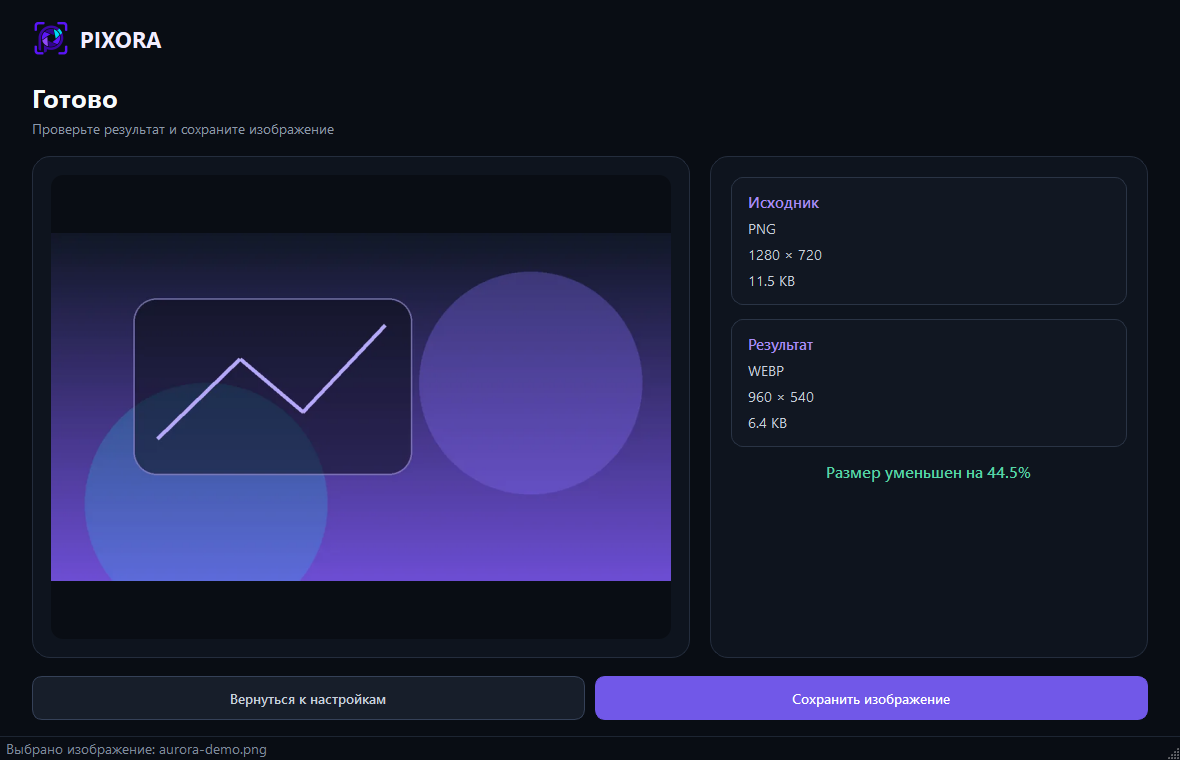
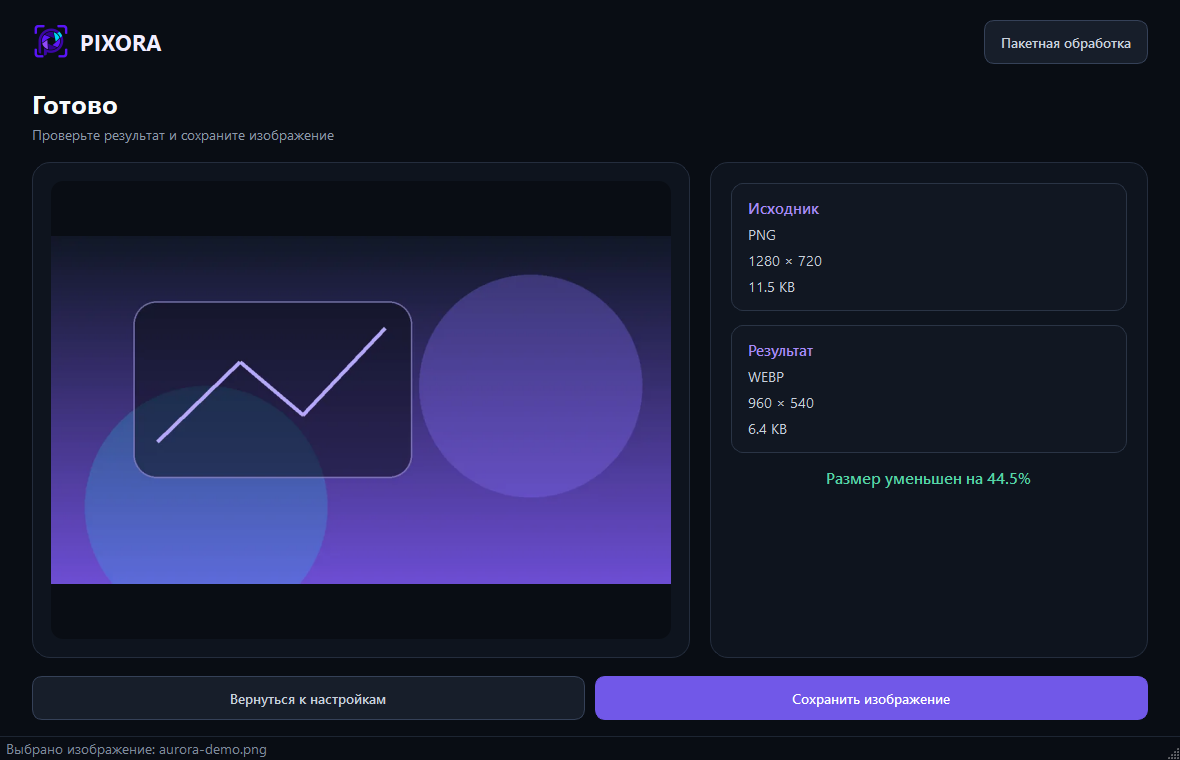
docs: описал распределённую обработку

diff --git a/scripts/capture_screenshots.py b/scripts/capture_screenshots.py
@@ -40,7 +40,7 @@ def create_showcase_image(destination: Path) -> None:
 
 
 def main() -> int:
-    """Render the workspace and inline result states into PNG files."""
+    """Render workspace, result and distributed batch states into PNG files."""
     SCREENSHOT_DIR.mkdir(parents=True, exist_ok=True)
     application = QApplication.instance() or QApplication([])
     apply_dark_theme(application)
@@ -85,6 +85,21 @@ def main() -> int:
         window.content_stack.setCurrentWidget(window.result_panel)
         application.processEvents()
         window.grab().save(str(SCREENSHOT_DIR / "pixora-result.png"))
+
+        batch_sources = [sample_path]
+        for index, size in enumerate(((900, 900), (800, 1200)), start=2):
+            batch_source = temporary_path / f"aurora-demo-{index}.png"
+            Image.new(
+                "RGB",
+                size,
+                (45 + index * 35, 55, 130 + index * 20),
+            ).save(batch_source, format="PNG")
+            batch_sources.append(batch_source)
+        window.batch_panel.set_files(batch_sources)
+        window.content_stack.setCurrentWidget(window.batch_panel)
+        window.batch_mode_button.setText("Обычный режим")
+        application.processEvents()
+        window.grab().save(str(SCREENSHOT_DIR / "pixora-batch.png"))
 
         processed_image.close()
         window.close()

diff --git a/docs/distributed-processing.md b/docs/distributed-processing.md
@@ -1,0 +1,99 @@
+# Распределённая обработка Pixora
+
+## Что запущено
+
+Локальный стенд состоит из пяти постоянно работающих контейнеров:
+
+- `api` — принимает пакет изображений, создаёт задания и отдаёт статусы;
+- `redis` — передаёт задания Celery и хранит их состояния;
+- `minio` — хранит исходные изображения и готовые результаты;
+- два экземпляра `worker` — независимо забирают задания из очереди и вызывают
+  обычный `ImageService` Pixora.
+
+Каждое изображение является отдельной вычислительной задачей. Поэтому разные
+изображения одного пакета могут одновременно обрабатываться разными workers.
+
+## Запуск локального кластера
+
+Из корня проекта:
+
+```powershell
+docker compose up --build --detach
+docker compose ps
+```
+
+После запуска доступны:
+
+- API: <http://127.0.0.1:8000>;
+- Swagger: <http://127.0.0.1:8000/docs>;
+- MinIO Console: <http://127.0.0.1:9001>.
+
+Данные Redis и MinIO находятся в именованных Docker volumes. Метаданные задач и
+файлы автоматически удаляются через 24 часа. Исходник также удаляется сразу
+после успешной обработки или подтверждённой отмены.
+
+## Быстрая проверка
+
+```powershell
+python scripts/distributed_smoke_test.py
+```
+
+Скрипт выполняет полный путь:
+
+1. создаёт восемь временных PNG с разными соотношениями сторон;
+2. отправляет их одним пакетом в FastAPI;
+3. ждёт завершения Celery-задач;
+4. проверяет участие минимум двух workers;
+5. скачивает результаты из MinIO через API;
+6. проверяет формат, размеры и отсутствие искажений пропорций.
+
+Если включено «Сохранять пропорции», каждое изображение независимо вписывается
+в выбранные границы ширины и высоты. Если флажок отключён, все результаты имеют
+точно указанный размер.
+
+## Масштабирование
+
+Число worker-контейнеров можно изменить без правок Python-кода:
+
+```powershell
+docker compose up --detach --scale worker=4
+```
+
+Redis отдаёт свободное задание следующему доступному worker. Параметр
+`worker_prefetch_multiplier=1` не позволяет одному узлу заранее забрать большую
+часть коротких заданий.
+
+## Остановка
+
+```powershell
+docker compose down
+```
+
+Команда останавливает контейнеры, но сохраняет результаты и данные очереди.
+Удалять volumes следует только тогда, когда тестовые данные больше не нужны.
+
+## Переменные окружения
+
+Пример локальных реквизитов находится в `.env.example`. Для тестового стенда
+Compose подставляет локальные демонстрационные значения. Перед запуском в общей
+сети нужно задать собственный длинный пароль MinIO и не публиковать Redis без
+аутентификации и сетевого ограничения.
+
+Desktop-приложение по умолчанию обращается к
+`http://127.0.0.1:8000`. Другой адрес можно передать через переменную
+`PIXORA_API_URL` до запуска Pixora.
+
+## HTTP API
+
+- `GET /health` — готовность Redis и MinIO;
+- `POST /api/v1/batches` — загрузка пакета и постановка задач в очередь;
+- `GET /api/v1/batches/{batch_id}` — общий прогресс и состояния файлов;
+- `POST /api/v1/batches/{batch_id}/cancel` — отмена незавершённых задач;
+- `GET /api/v1/jobs/{job_id}` — состояние одной задачи;
+- `GET /api/v1/jobs/{job_id}/download` — скачивание готового результата.
+
+В ответе успешной задачи есть поле `worker`. Разные значения этого поля для
+одного пакета являются наглядным подтверждением распределения вычислений.
+
+Отмена хранится в Redis, поэтому ожидающая задача останется отменённой даже в
+том случае, если worker был выключен во время запроса и подключился позднее.

diff --git a/README.md b/README.md
@@ -9,7 +9,7 @@
 </p>
 
 <p align="center">
-  <a href="https://github.com/7sy-png/Pixora/releases/latest/download/Pixora-v1.2.0-windows-x64.exe">
+  <a href="https://github.com/7sy-png/Pixora/releases/latest/download/Pixora-v2.0.0-windows-x64.exe">
     <strong>Скачать Pixora для Windows</strong>
   </a>
 </p>
@@ -27,12 +27,13 @@
 - живой предпросмотр размера, пропорций, поворота и отражения;
 - Drag & Drop и выбор файла через проводник;
 - предпросмотр результата перед сохранением;
-- обработка без зависания интерфейса.
+- обработка без зависания интерфейса;
+- пакетная обработка через FastAPI, Redis, Celery и несколько Docker-workers.
 
 ## Скачать и запустить
 
 1. Скачайте
-   [Pixora-v1.2.0-windows-x64.exe](https://github.com/7sy-png/Pixora/releases/latest/download/Pixora-v1.2.0-windows-x64.exe).
+   [Pixora-v2.0.0-windows-x64.exe](https://github.com/7sy-png/Pixora/releases/latest/download/Pixora-v2.0.0-windows-x64.exe).
 2. Запустите файл — установка не требуется.
 3. Выберите изображение и задайте параметры обработки.
 
@@ -63,6 +64,23 @@ python main.py
 ```
 
 Поддерживаются файлы `.jpg`, `.jpeg`, `.png` и `.webp` размером до 20 МБ.
+
+## Распределённый режим
+
+Для пакетной обработки установите Docker Desktop и запустите локальный кластер:
+
+```powershell
+python -m pip install -r requirements.txt -r requirements-distributed.txt
+docker compose up --build --detach
+python scripts/distributed_smoke_test.py
+python main.py
+```
+
+Каждое изображение становится отдельной задачей Celery, а Redis распределяет
+задачи между двумя независимыми workers. Подробная схема, API и масштабирование
+описаны в [документации распределённой обработки](docs/distributed-processing.md).
+
+![Распределённая пакетная обработка](docs/screenshots/pixora-batch.png)
 
 ## Лицензия
 
